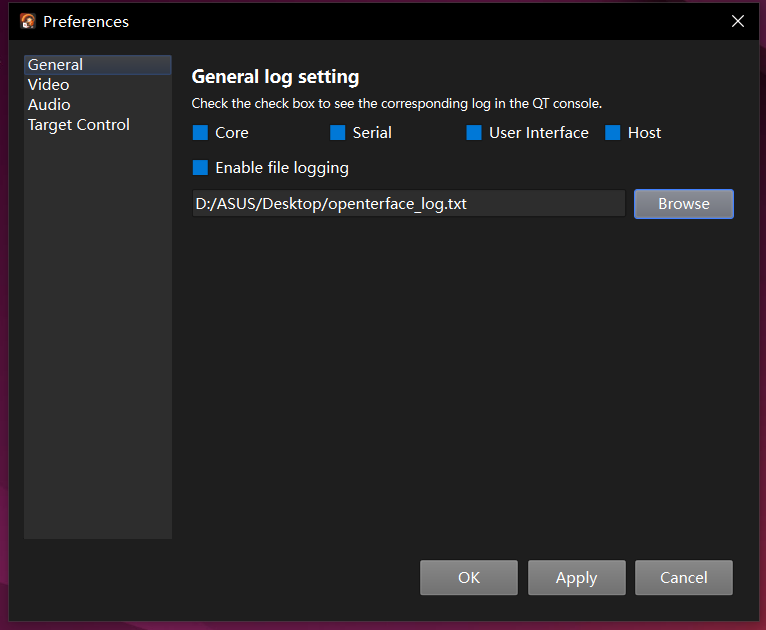
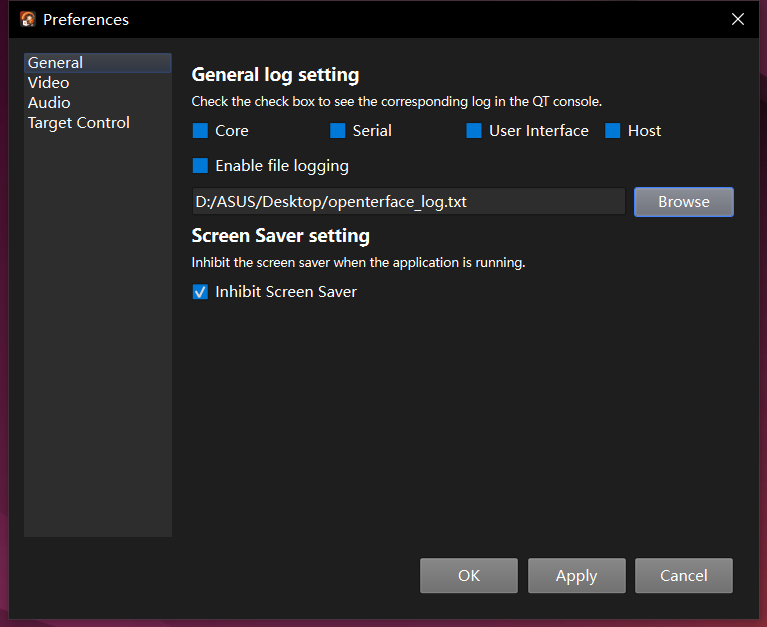
docs: update Qt documentation with screen saver inhibit option
Add information about the screen saver inhibit option in the General preferences page of the Qt application documentation. This change ensures users are aware of the new functionality to control the screen saver behavior while the application is running.

diff --git a/docs/app/qt/index.md b/docs/app/qt/index.md
@@ -8,13 +8,14 @@ This document provides an overview of a cross-platform KVM (Keyboard, Video, Mou
 
 The Preferences menu allows users to customize settings via a dialog with four pages:<br>
 ![Preferences Gernal](/docs//images/qt/preferenceGernal.png)
-- **General** This page configures debugging logs filter. Log categories include:
+- **General** This page configures debugging logs filter and the screen saver inhibit or not when the application is running. Log categories include:
   - Core
   - Serial
   - UserInterface
   - host
 
-  Users can choose to save logs to a .txt file.<br>
+  Users can choose to save logs to a .txt file and the screen saver inhibit or not.<br>
+
 ![Preferences Video](/docs//images/qt/preferenceVideo.png)
 - **Video** This page enables users to:
   - Select which camera's data to capture.
